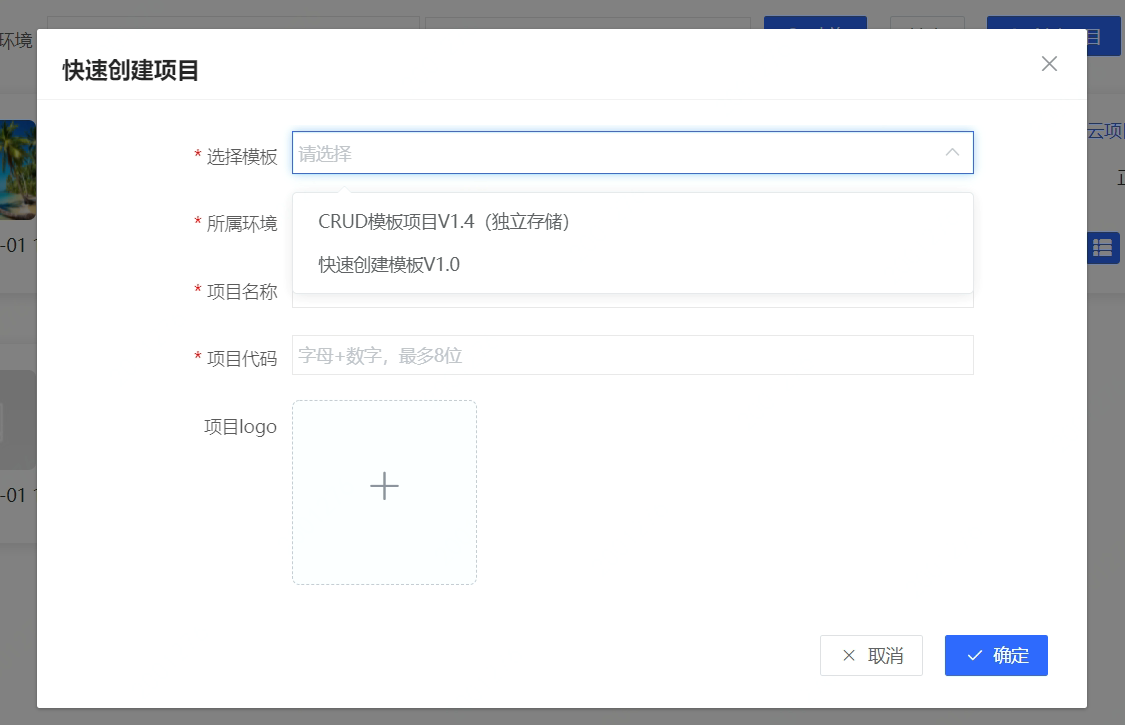
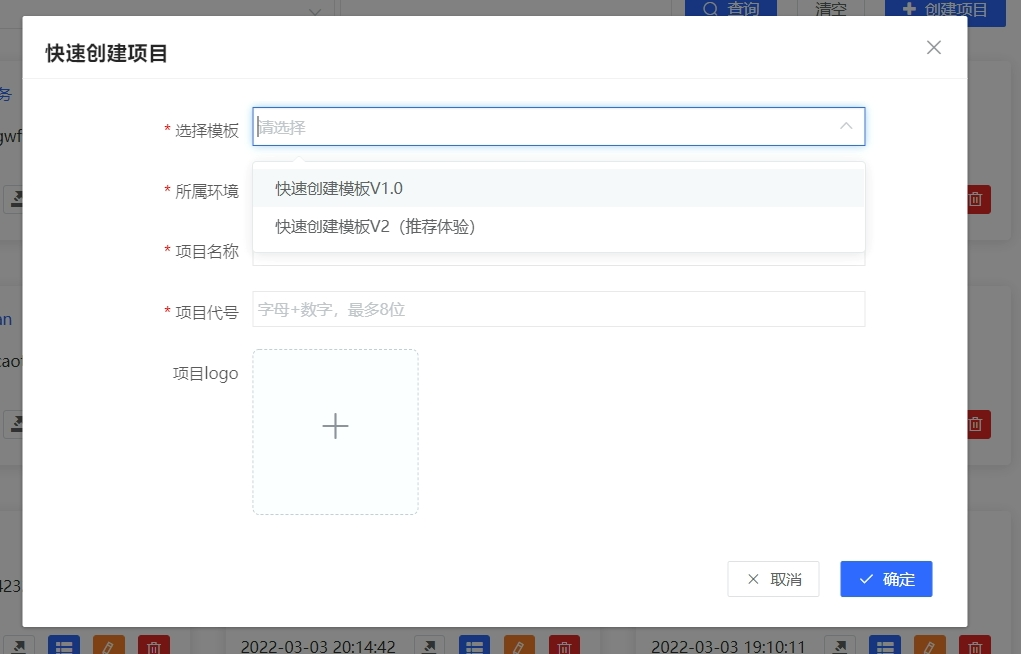
update started

diff --git a/documentation/Developer-Tools/Joybuilder/Getting-Started/Create-Project.md b/documentation/Developer-Tools/Joybuilder/Getting-Started/Create-Project.md
@@ -8,7 +8,7 @@
 
  ![](/image/Joybuilder/create_project.PNG) 
 
-3、选择模板，推荐“快速创建模板V1.0”
+3、选择模板，推荐“快速创建模板V2(推荐体验)”
 
  ![](/image/Joybuilder/create_project_template.PNG) 
   
@@ -35,4 +35,10 @@
 6、点击【确定】按钮，完成项目创建。在项目列表中，通过【访问】按钮，即可进行项目访问
 
 ![](/image/Joybuilder/create_project_end.PNG) 
+
+7、点击【查看详情】按钮，查看项目信息，也可点击【修改】按钮，对项目详情进行修改
+
+![](/image/Joybuilder/create_project_detail.PNG) 
+
+
 
